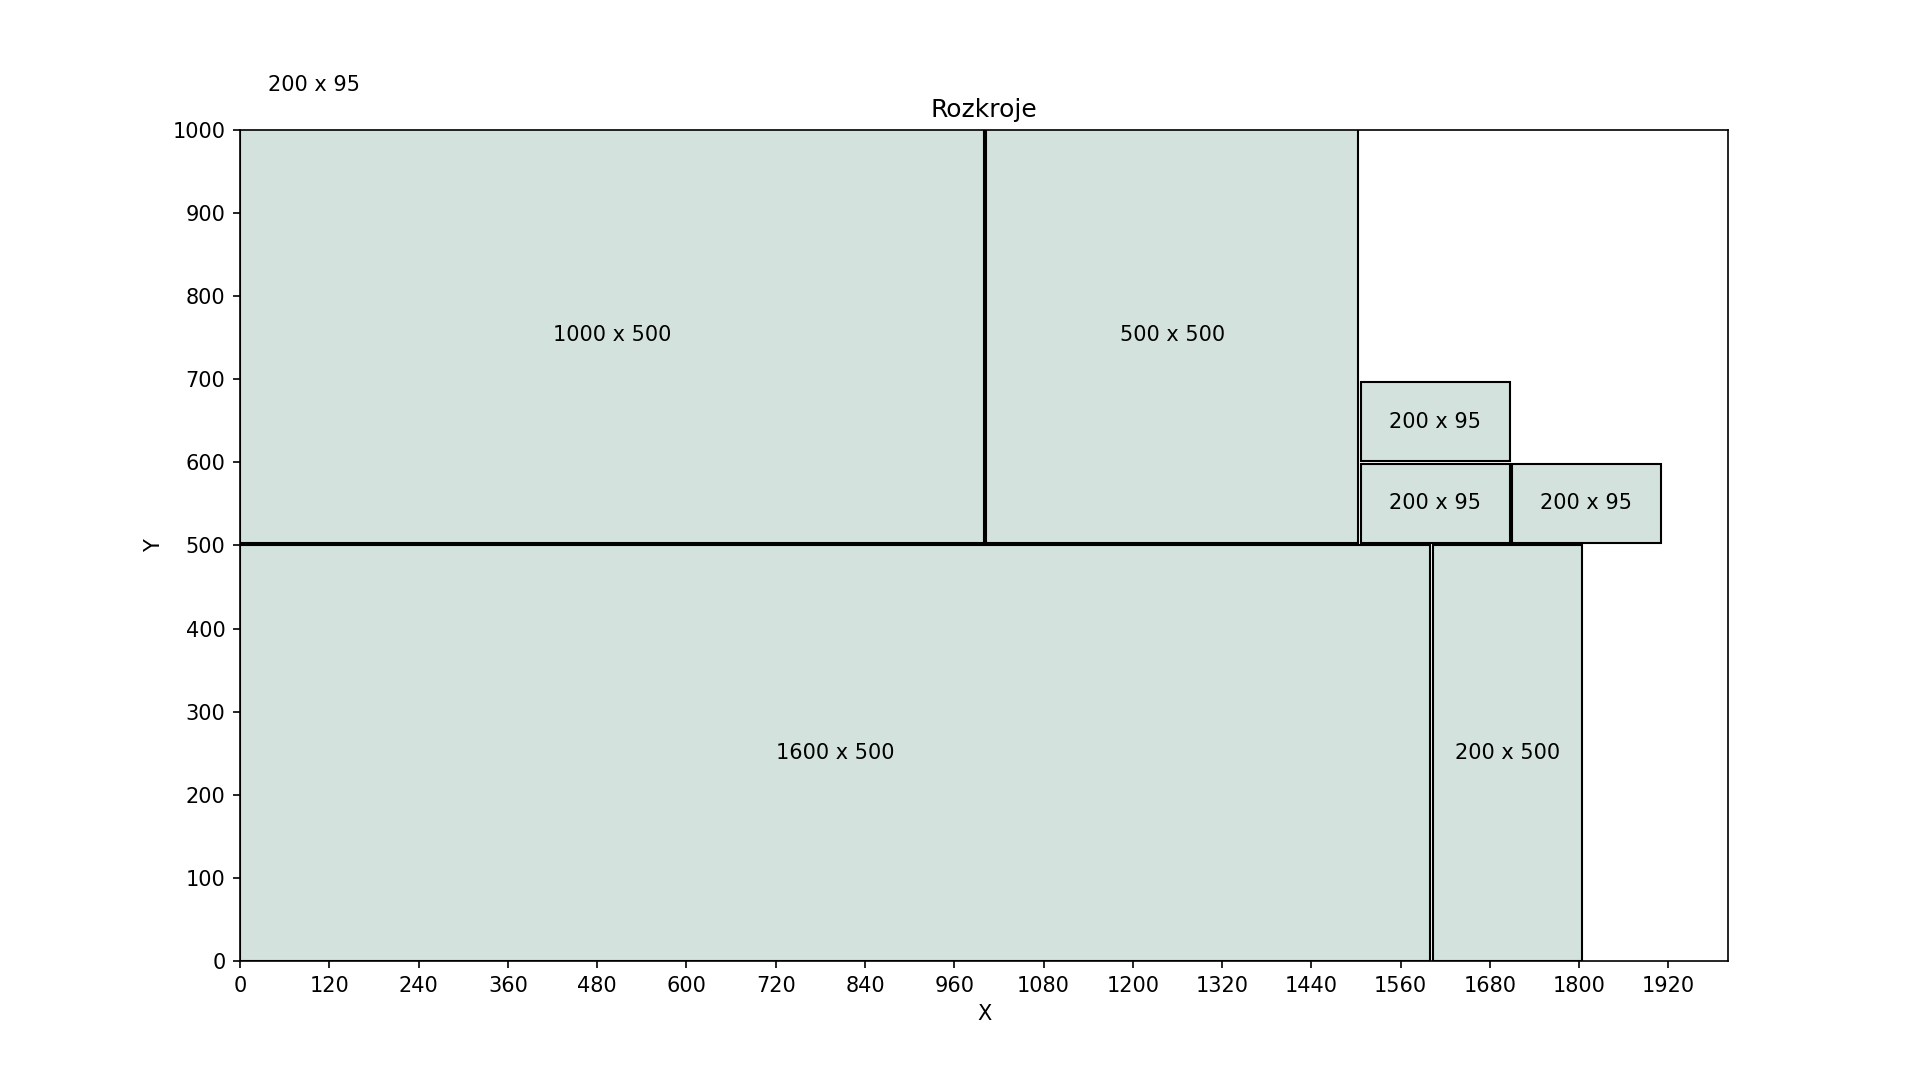
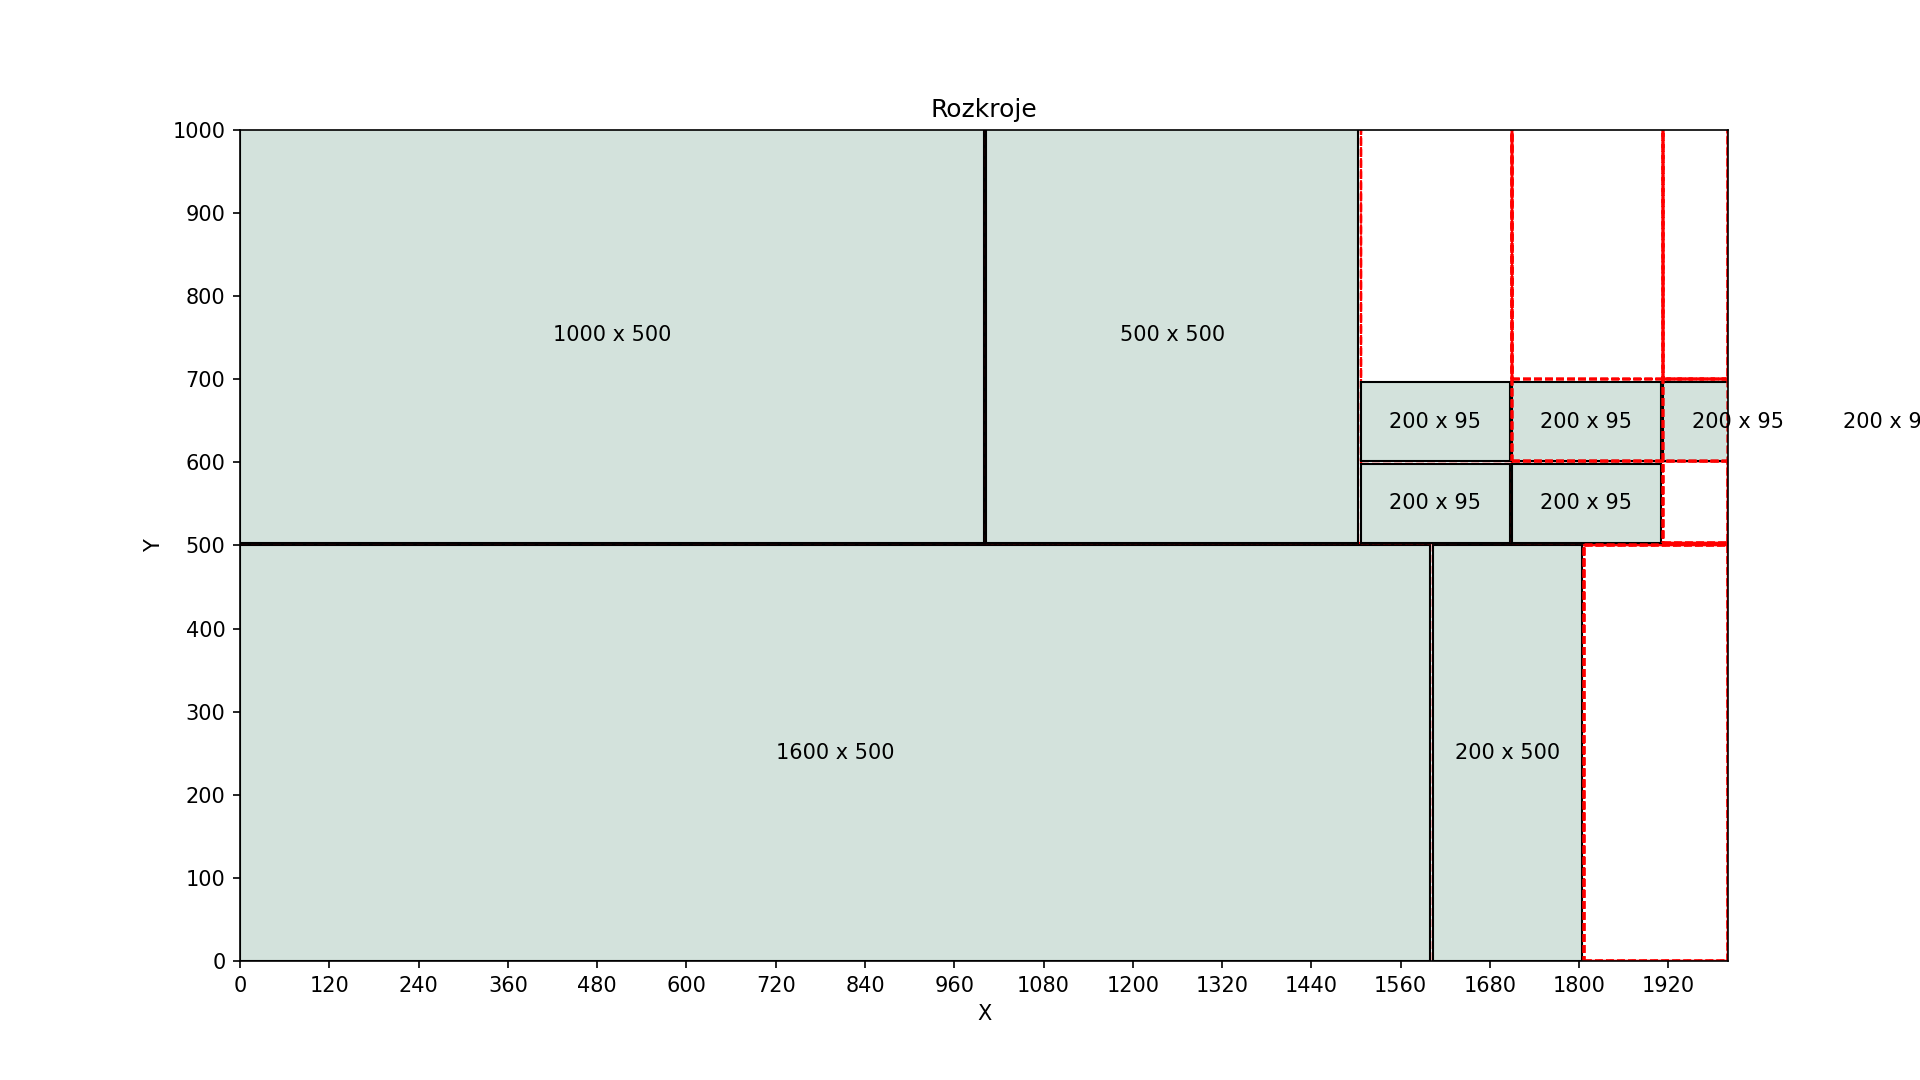
some adjustment to start_x at new gaps

diff --git a/AutoWood_Backend/product/cut_optimizer/moje.py b/AutoWood_Backend/product/cut_optimizer/moje.py
@@ -60,10 +60,13 @@ class VirtualRow:
             #on tworzy rzędy troche niepotrzebnie? 
             #self. X ?
             if format_height < self.Y:
+
                 remaining_height = self.Y - format_height
-                new_row = VirtualRow(self.X, remaining_height, self.start_x - format_width - SAW , self.start_y + format_height + SAW)
+                remaining_width = X- self.X       
+                new_row = VirtualRow((X - self.X), remaining_height, self.start_x - format_width - SAW , self.start_y + format_height + SAW)
                 
                 print(f"Creating new row for remaining height: {remaining_height}")
+                
                 return new_row  # Return the new row to append to vrs in place_elements()
 
             return True
@@ -76,11 +79,6 @@ class VirtualRow:
     def __str__(self):
         return f"VirtualRow X: {self.X}, Y: {self.Y}, start_x: {self.start_x}, start_y: {self.start_y}, formats: {self.formats}"
     
-def check_vrs_start_y(current_vr, vrs):
-    
-    for vr in vrs:
-        if current_vr.start_y == vr.start_y and current_vr.start_x < vr.start_x:
-            return True
                   
 
 def generate_board(X,Y):
@@ -101,7 +99,7 @@ def generate_board(X,Y):
     if not os.path.exists(output_dir):
         os.makedirs(output_dir)
 
-    formats = [[1600, 500], [500, 500], [1000,500],[200,500], [200,95],[200,95], [200,95], [200,95]]
+    formats = [[1600, 500], [500, 500], [1000,500],[200,500], [200,95],[200,95], [200,95], [200,95],[200,95], [200,95], [200,95],[200,95], [200,95], [200,95]]
     formats.sort(reverse=True)
 
     place_elements(formats)
@@ -142,14 +140,33 @@ def generate_rectangle(start_position_x, start_position_y, width, height, ax):
 
     rect = patches.Rectangle(xy=(start_position_x,start_position_y), width=width, height=height, edgecolor='black', facecolor='#d3e2dc', antialiased=True, linewidth=None)
     ax.add_patch(rect)
+
     print(f"Placing rectangle in X:{start_position_x},Y:{start_position_y} format size:  X: {width} Y:{height}" )
 
     text_x = start_position_x + width / 2
     text_y = start_position_y + height / 2
     ax.text(text_x, text_y, f'{width} x {height}', ha='center', va='center', fontsize=10, color='black')
 
+def draw_virtual_rows(vrs, ax):
+    """
+    Draws red boundary lines for all virtual rows on the board.
+    """
+    for vr in vrs:
+        # Draw a red rectangle to represent the virtual row boundaries
+        rect = patches.Rectangle(
+            xy=(vr.start_x, vr.start_y), 
+            width=vr.X, 
+            height=vr.Y, 
+            edgecolor='red', 
+            facecolor='none', 
+            linestyle='--', 
+            linewidth=1
+        )
+        ax.add_patch(rect)
+        print(f"Drawing virtual row boundary: Start X={vr.start_x}, Y={vr.start_y}, Width={vr.X}, Height={vr.Y}")
 
 def place_elements(formats):
+    
     vrs = []  # List of VirtualRows
     current_y_position = 0  # Y position tracker
     current_vr = VirtualRow(X, 500, 0, 0)  # Create the first VirtualRow
@@ -159,16 +176,20 @@ def place_elements(formats):
         print(formats)
         width, height = formats[0][0],formats[0][1]
 
-        #Może usuwaj dopiero po dodaniu elementu do vr po komendzie if placed?
+        
         placed = False
 
         # Try placing the format in existing VirtualRows
         for vr in vrs:
             placed = vr.add_format(width, height)
+            draw_virtual_rows(vrs, ax)
+            plt.savefig(file_path, format='png', dpi=150)
             if isinstance(placed, VirtualRow):
                 # If a new row is returned, append it to vrs
                 print("New virtual row created from a gap.")
                 vrs.append(placed)
+                draw_virtual_rows(vrs, ax)
+                plt.savefig(file_path, format='png', dpi=150)
                 vrs.sort(key=lambda vr: vr.start_y)
                 placed = True
             if placed:
@@ -182,20 +203,10 @@ def place_elements(formats):
             #FIND ACTUAL X
             new_vr = VirtualRow(X, height, 0, current_y_position)
             vrs.append(new_vr)
+            draw_virtual_rows(vrs, ax)
+            plt.savefig(file_path, format='png', dpi=150)
             vrs.sort(key=lambda vr: vr.start_y)
             
-            for vr in vrs:
-                placed = vr.add_format(width, height)
-                if isinstance(placed, VirtualRow):
-                    # If a new row is returned, append it to vrs
-                    print("New virtual row created from a gap.")
-                    vrs.append(placed)
-                    vrs.sort(key=lambda vr: vr.start_y)
-                    placed = True
-                if placed:
-                    formats.pop(0)
-                    plt.savefig(file_path, format='png', dpi=150)
-                    break
 
     for vr in vrs:
         print(vr)
